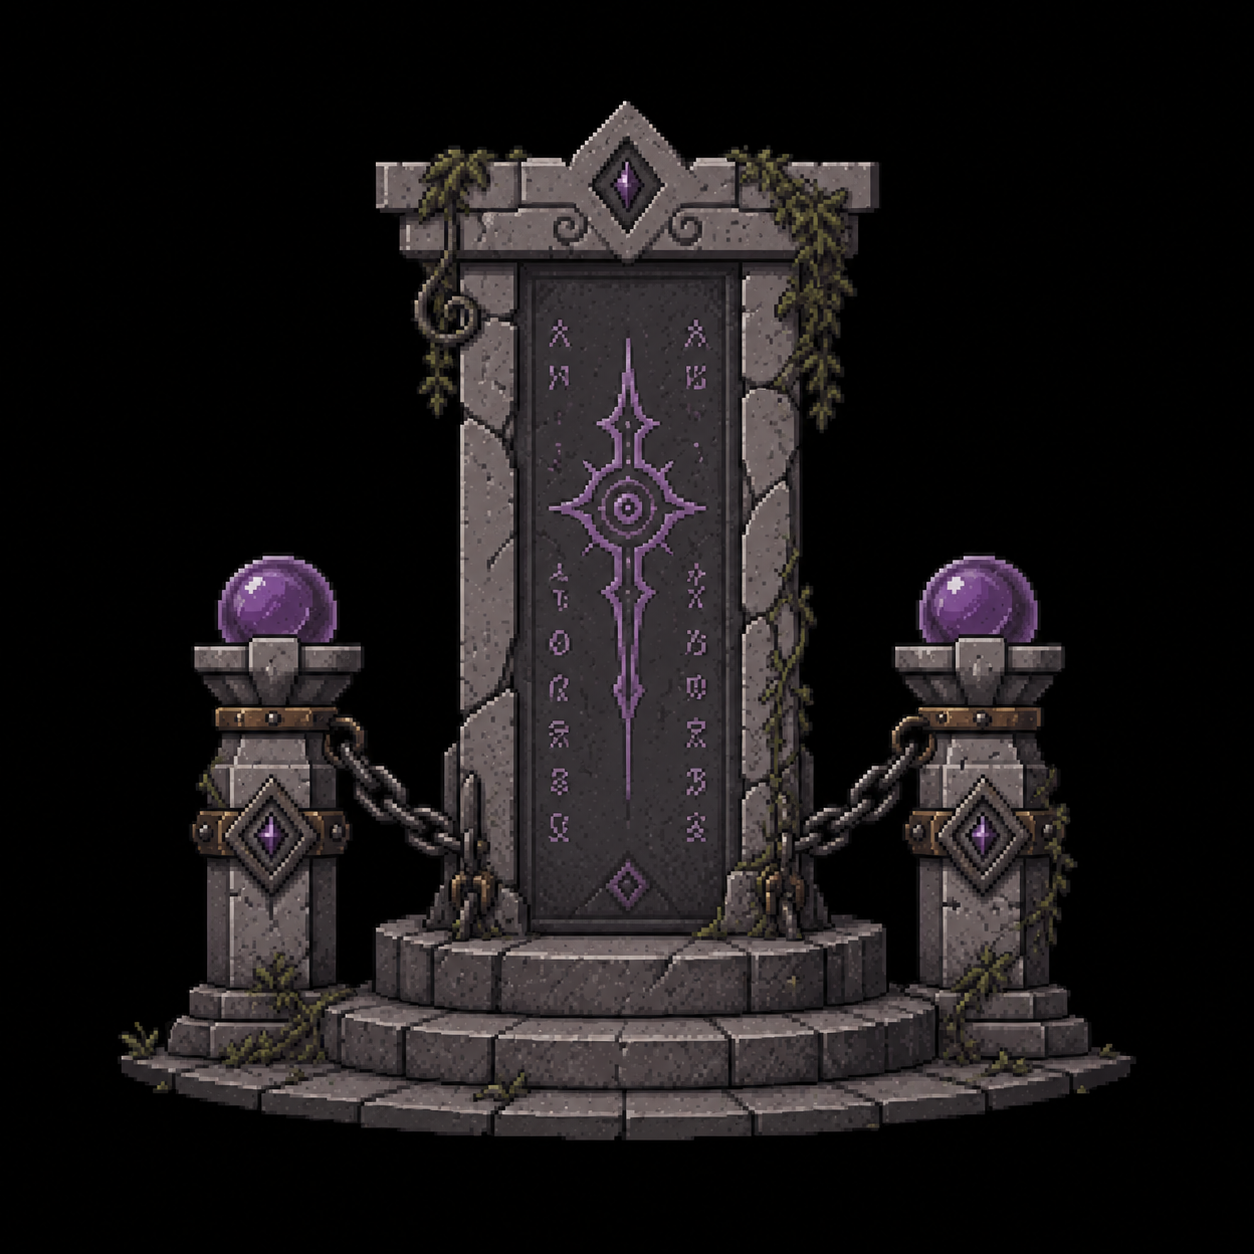
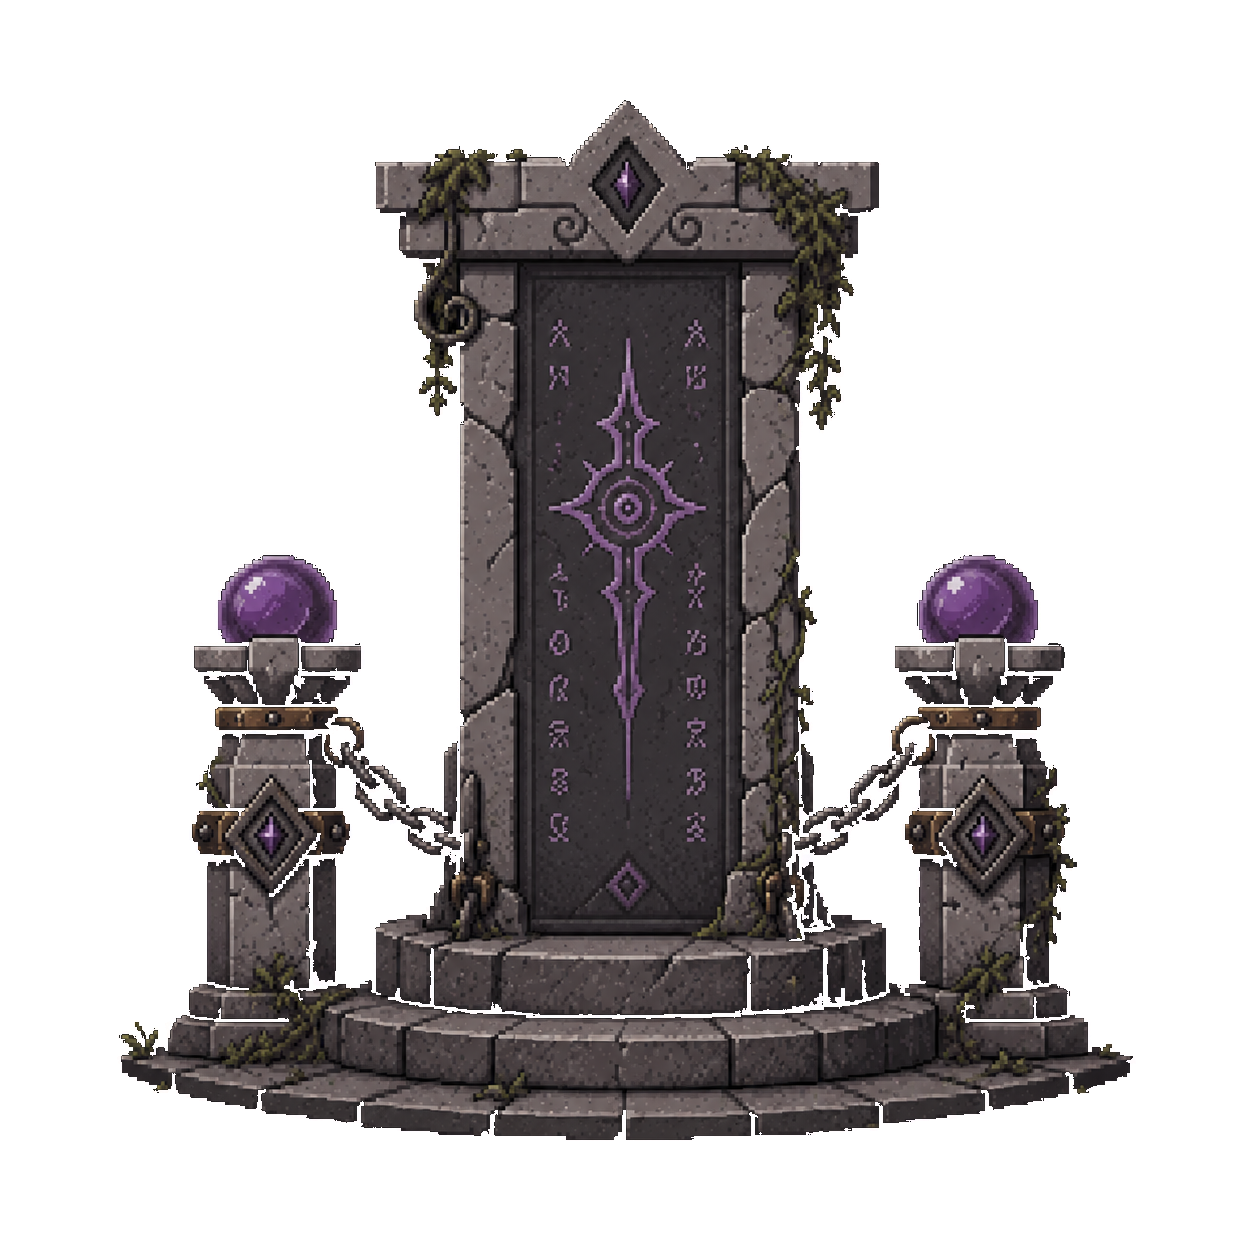
fix : erase altar.png BG

diff --git a/Assets/01.Scripts/03.Boss/Boss2/Boss2Health.cs b/Assets/01.Scripts/03.Boss/Boss2/Boss2Health.cs
@@ -10,7 +10,9 @@ using Minsung.TimeSystem;
 
 // 부유 보스(Boss2) 체력 - 플레이어 AttackHitbox가 IDamageable로 인식해 피해를 꽂는 대상
 // 페이즈 하한: 원본 BossController와 동일한 방식 - 피통을 PhaseCount로 균등 분할해 현재 페이즈 하한 아래로는 안 깎인다
-// TODO: 페이즈 전환(하한 도달 시 기믹 -> _phaseIndex 증가)/피격 리액션/사망 연출 미구현 - 지금은 3페이즈(_phaseIndex=0) 하한 동결만 제공
+// 페이즈 전환: 하한 도달 시 _phaseIndex를 올려 다음 하한까지 데미지가 계속 흐르게 한다(boss-design.md - 3~4페이즈 경계엔 확정된 기믹이 없어 별도 연출 없이 즉시 전환)
+// 최종 페이즈(4페이즈) 진입 시 타임 리와인드를 잠근다 - Minsung.Boss.Phase4State와 동일한 규칙(boss-design.md: "4페이즈 - 타임 리와인드 시스템 삭제")
+// TODO: 피격 리액션/사망 연출 미구현
 public class Boss2Health : MonoBehaviour, IDamageable, IRewindable
 {
     /****************************************
@@ -21,9 +23,10 @@ public class Boss2Health : MonoBehaviour, IDamageable, IRewindable
     [SerializeField] private Boss2DataSO _dataSo;
 
     private float _currentHealth;
-    private int   _phaseIndex; // 현재 페이즈 인덱스(0부터) - 지금은 항상 0(3페이즈), 4페이즈 전환 로직은 추후 _phaseIndex를 올리는 방식으로 확장
+    private int   _phaseIndex; // 현재 페이즈 인덱스(0부터) - 0: 3페이즈, PhaseCount-1: 4페이즈(최종)
     private bool  _isRewinding; // 되감기 중 피해 차단 (플레이어/몬스터 체력 가드와 동일한 관례)
     private RingBuffer<float> _rewindBuffer;
+    private RewindManager.RewindLockHandle _finalPhaseRewindLock; // 최종 페이즈 진입 시 획득, 보스 처치(오브젝트 파괴) 시까지 유지
 
     // Boss 루트(부모)에 Boss2AttackPatterns가 붙이는 컴포넌트 - HitCenter는 자식이라 GetComponentInParent로 찾는다
     private Boss2EmotionController _emotionController;
@@ -61,7 +64,13 @@ public class Boss2Health : MonoBehaviour, IDamageable, IRewindable
     // 현재 페이즈의 피통 상한 - 되감기로 이전 페이즈 값이 섞여 들어오지 않도록 클램프에 사용
     private float PhaseCeilHealth => MaxHealth - (PhaseSpan * _phaseIndex);
 
+    // 마지막 페이즈(4페이즈)인지 - 여기서부턴 하한 도달해도 더 이상 전환할 다음 페이즈가 없다
+    private bool IsFinalPhase => (_dataSo == null) || (_phaseIndex >= _dataSo.PhaseCount - 1);
+
+    public int PhaseIndex => _phaseIndex;
+
     public event Action<float, float> OnHealthChanged; // (현재, 최대)
+    public event Action<int>          OnPhaseChanged;   // 새 페이즈 인덱스
     public event Action               OnDefeated;
 
     /****************************************
@@ -81,6 +90,7 @@ public class Boss2Health : MonoBehaviour, IDamageable, IRewindable
 
     private void OnDestroy()
     {
+        _finalPhaseRewindLock.Dispose();
         RewindManager.Instance?.Unregister(this);
     }
 
@@ -107,12 +117,34 @@ public class Boss2Health : MonoBehaviour, IDamageable, IRewindable
         _currentHealth = Mathf.Max(PhaseFloorHealth, _currentHealth - dmg);
         OnHealthChanged?.Invoke(_currentHealth, MaxHealth);
 
+        if ((_currentHealth <= PhaseFloorHealth) && !IsFinalPhase)
+        {
+            AdvancePhase();
+        }
+
         if (_currentHealth <= 0f)
         {
             GameManager.Instance?.StopBossTimer();
             OnDefeated?.Invoke();
         }
         return true;
+    }
+
+    // 페이즈 하한 도달 - 다음 페이즈로 넘어가 하한을 다시 계산한다(boss-design.md에 3~4페이즈 경계 전용 기믹이 없어 즉시 전환)
+    private void AdvancePhase()
+    {
+        ++_phaseIndex;
+        OnPhaseChanged?.Invoke(_phaseIndex);
+
+        if (IsFinalPhase)
+        {
+            // 4페이즈: 처치할 때까지 리와인드 발동 자체를 잠근다 (Minsung.Boss.Phase4State와 동일한 규칙)
+            _finalPhaseRewindLock.Dispose();
+            if (RewindManager.Instance != null)
+            {
+                _finalPhaseRewindLock = RewindManager.Instance.AcquireRewindLock(this);
+            }
+        }
     }
 
     /****************************************

diff --git a/claude/boss2-handover.md b/claude/boss2-handover.md
@@ -95,6 +95,30 @@ GameHUD (Assets/02.Prefabs/UI/GameHUD.prefab 인스턴스)
 - Angry: `SetEmotion` 즉시 `_confusionRoutine` 코루틴 시작 확인(리플렉션), None으로 돌아가면 정지
 - None: 양쪽 아이콘 모두 비활성화
 
+## 7.6 페이즈 전환 (3페이즈 -> 4페이즈)
+
+`boss-design.md`엔 3~4페이즈 경계 전용 기믹이 없고("나머지 세부 패턴은 추후 확정"), 유일하게 확정된 규칙은 **"4페이즈 진입 시 타임 리와인드 사용 불가"**뿐이다. `Minsung.Boss.Phase4State`도 정확히 이 규칙만 구현하고(패턴은 Phase2State를 임시로 그대로 상속) 나머지는 비워뒀길래, Boss2도 동일한 최소 구현으로 맞췄다.
+
+전부 `Boss2Health.cs`에 있다(별도 FSM/State 클래스 없이 — Boss2엔 애초에 페이즈별 상태 클래스가 없고, 지금은 패턴 교체 없이 하한만 넘어가는 정도라 코디네이터(`Boss2AttackPatterns`)나 별도 상태 클래스를 새로 만들 정도는 아니라고 판단):
+
+- `TakeDamage`가 데미지를 적용한 뒤 `_currentHealth <= PhaseFloorHealth`이고 아직 마지막 페이즈가 아니면 `AdvancePhase()` 호출
+- `AdvancePhase()`: `++_phaseIndex` -> `OnPhaseChanged` 이벤트 발행 -> 마지막 페이즈(`_phaseIndex >= PhaseCount - 1`)가 됐으면 `RewindManager.Instance.AcquireRewindLock(this)`로 리와인드 잠금(보스 처치/오브젝트 파괴 시까지 유지, `OnDestroy`에서 `Dispose`)
+- `PhaseFloorHealth`/`PhaseCeilHealth`는 `_phaseIndex`를 그대로 참조하는 계산식이라 페이즈가 올라가면 자동으로 다음 구간 기준으로 재계산됨 - 그래서 하한 도달 즉시 그 프레임에 남은 데미지를 이어받지는 않고(이번 히트는 새 하한까지 클램프), 다음 히트부터 새 하한 기준으로 깎인다 (원본 `BossController.TakeDamage`와 동일한 클램프 방식)
+- `OnPhaseChanged`는 지금은 아무도 구독하지 않는 훅 - 4페이즈 전용 공격 패턴/감정 강제(예: 3페이즈 "화남 고정" 같은)가 기획 확정되면 `Boss2AttackPatterns`가 구독해서 처리하면 된다
+- `BossHealthBarUI`(Boss2)는 `CurrentHealth/MaxHealth` 비율만 그리므로 페이즈 경계에서 시각적으로 끊기지 않고 그대로 이어서 줄어든다 - 코드 수정 불필요했음
+
+**Play 모드 검증 (execute_code, `MaxHealth=2/PhaseCount=2`로 테스트)**:
+```
+MaxHealth=2 PhaseIndex=0 CurrentHealth=2
+Hit1(dmg=1): applied=True health=1 phaseIndex=1 phaseChangedFired=True newPhase=1   # 하한(1) 도달 -> 즉시 4페이즈 전환
+Active rewind locks count=1   # 리와인드 잠금 확인
+Hit2(dmg=0.5, 4페이즈 하한=0): applied=True health=0.5
+Hit3(dmg=0.5): applied=True health=0   # 처치
+IsBossRunActive after defeat=False   # StopBossTimer 정상 호출 확인
+```
+
+**주의 - `MaxHealth`는 현재 테스트용으로 `2`(실제 값 `5000`이 아님)로 바뀐 상태다.** `Assets/08.Data/Boss2/Boss2DB.asset`에서 되돌려야 함 - 밸런싱 확정 전까지는 이 상태로 페이즈 전환/데미지 상한을 빠르게 반복 테스트하기 위해 일부러 낮춰둔 것.
+
 - **`HitCenter`**: 원래 `Boss`(루트)에 콜라이더+체력이 있었는데, 플레이어 오브 공격이 루트 피벗(시각적으로 턱 근처)에 꽂히는 버그가 있어서 시각적 중심(스프라이트 world bounds 기준 오프셋 `0.34, 1.07`)에 자식으로 분리했다. `AttackHitBox`도 같은 오프셋으로 옮겨서 돌진 판정이 실제 몸통에서 나가게 했다.
 - `Boss` 루트의 `BoxCollider2D`는 **Trigger**로 되어 있다 — 처음엔 non-trigger라 플레이어를 물리적으로 밀쳐냈음.
 
@@ -159,6 +183,7 @@ Unity MCP로 Play 모드 진입 후 직접 확인한 것:
 - [x] 리와인드 — 체력 5000→3500 데미지 후 되감기 -> 5000으로 완전 복원, `_isRewinding` 플래그 정상 해제, 되감기 종료 후 배회 이동도 정상 재개 확인
 - [x] `BossTimer[ON]` UI 이식 + 타이머 시작/정지 트리거 — Play 진입 시 `Boss2AttackPatterns.Start()`가 자동으로 `GameManager.StartBossTimer()` 호출, `IsBossRunActive=True`로 전환되어 CanvasGroup alpha 1, `BOSS TIMER 00:24`까지 자동 증가하는 것을 스크린샷으로 확인. `Boss2Health` 체력 0 도달 시 `StopBossTimer()` 호출도 코드로 연결(체력 0 도달 자체는 아직 사망 연출 미구현이라 실전 시나리오로는 미검증)
 - [x] 보스 감정(`Boss2Emotion`) 이식 — 반사(Black/White/Navy)/낙뢰 배율(Pink/Blue)/키반전(Angry) 로직 + HUD 아이콘 2종(체력바 좌하단, 머리 위 반사). `execute_code`로 각 감정 강제 전환 -> 반사 시 피해 무효 + 체력 불변, 낙뢰 배율 2/0.5 반환, 키반전 코루틴 시작/정지, 아이콘 표시/숨김 전부 확인. 하트 픽업(Blue)은 씬에 `HeartPickup` 인스턴스가 없어 미검증(Boss1도 동일 상태)
+- [x] 페이즈 전환(3->4) — `MaxHealth=2`로 낮춰서 테스트: 하한 도달 시 `_phaseIndex` 증가 + `OnPhaseChanged` 발행 + 리와인드 잠금(잠금 개수 1로 확인) + 다음 하한(0)까지 데미지 계속 적용 + 0 도달 시 처치(`StopBossTimer` 호출까지) 전부 확인. 자세한 로그는 7.6절 참고
 
 **주의**: 테스트 중 Unity 에디터가 **Pause 상태**에서는 코루틴이 전혀 진행되지 않아 "공격해도 안 맞는" 것처럼 보인 적이 있었다. 실제 버그가 아니라 Pause 버튼 상태 문제였음 — 재현되면 이것부터 확인할 것.
 
@@ -167,7 +192,7 @@ Unity MCP로 Play 모드 진입 후 직접 확인한 것:
 ## 9. 남은 작업 (TODO)
 
 - [ ] 결정 로그 기반 정밀 리와인드 — 지금은 위치/체력만 되감기고, 배회 웨이포인트·돌진 타이밍·낙뢰/강타/레이저 발사 시점은 되감기 후 새로 랜덤하게 결정된다(원본 Phase2/3State의 `_waveXLog`/`_laserLog` 같은 결정 로그가 없음). `Boss2EmotionController`는 `_emotionLog`/`_emotionCursor`를 갖고 있지만(원본 그대로 이식), 리와인드 시작/종료 시 커서를 되돌리는 `Capture()`/`Restore()`가 없어서 실질적으로는 "한 번 뽑은 감정 순서를 앞으로만 계속 소비"하는 수준 — 되감은 게임 시간과 정확히 동기화되지 않는다
-- [ ] 페이즈 시스템(3페이즈/4페이즈 전환, 체력 구간별 기믹) — 지금은 단일 피통. 페이즈가 생기면 `Boss2AttackPatterns.Configure(...)`에 넘기는 `isTransitioning` 콜백(현재 `() => false` 고정)도 실제 전환 상태를 반영해야 한다
+- [x] 페이즈 전환(3->4) 기본 골격 — 하한 도달 시 `_phaseIndex` 증가 + 4페이즈 리와인드 잠금까지 구현·검증 완료(7.6절). 남은 건 4페이즈 전용 공격 패턴/감정(예: 3페이즈 "화남 고정")처럼 기획 미확정 상세뿐 — 확정되면 `Boss2Health.OnPhaseChanged` 구독해서 `Boss2AttackPatterns`에 반영. 페이즈 전환 컷신/기믹이 생기면 `Boss2AttackPatterns.Configure(...)`에 넘기는 `isTransitioning` 콜백(현재 `() => false` 고정)도 실제 전환 상태를 반영해야 한다
 - [ ] `MaxHealth`(5000) 등 임시값 전체 밸런싱
 - [ ] 사망 연출/처치 처리 (`Boss2Health.OnDefeated` 훅만 있고 실제 연출 없음) — `StopBossTimer()`는 이미 연결됨([Boss2Health.cs](Assets/01.Scripts/03.Boss/Boss2/Boss2Health.cs))
 - [ ] 피격 리액션(넉백/플래시 등) — 지금은 체력만 깎임